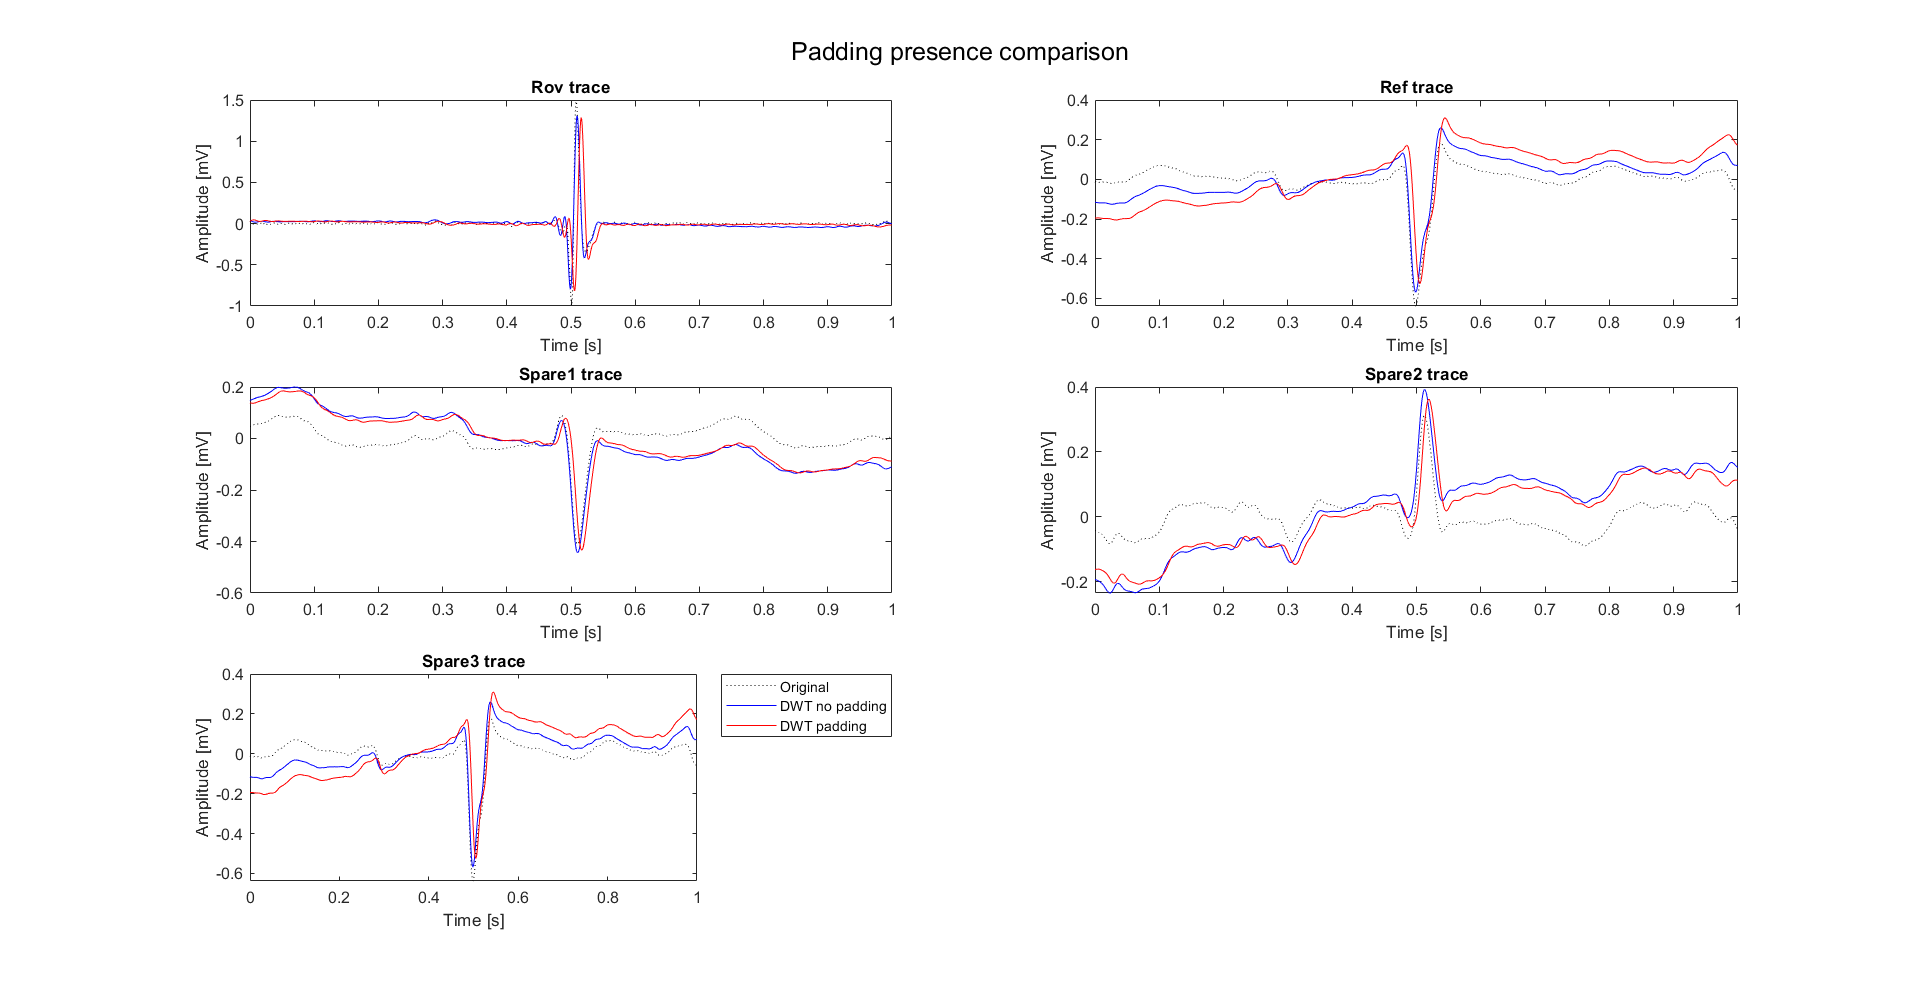
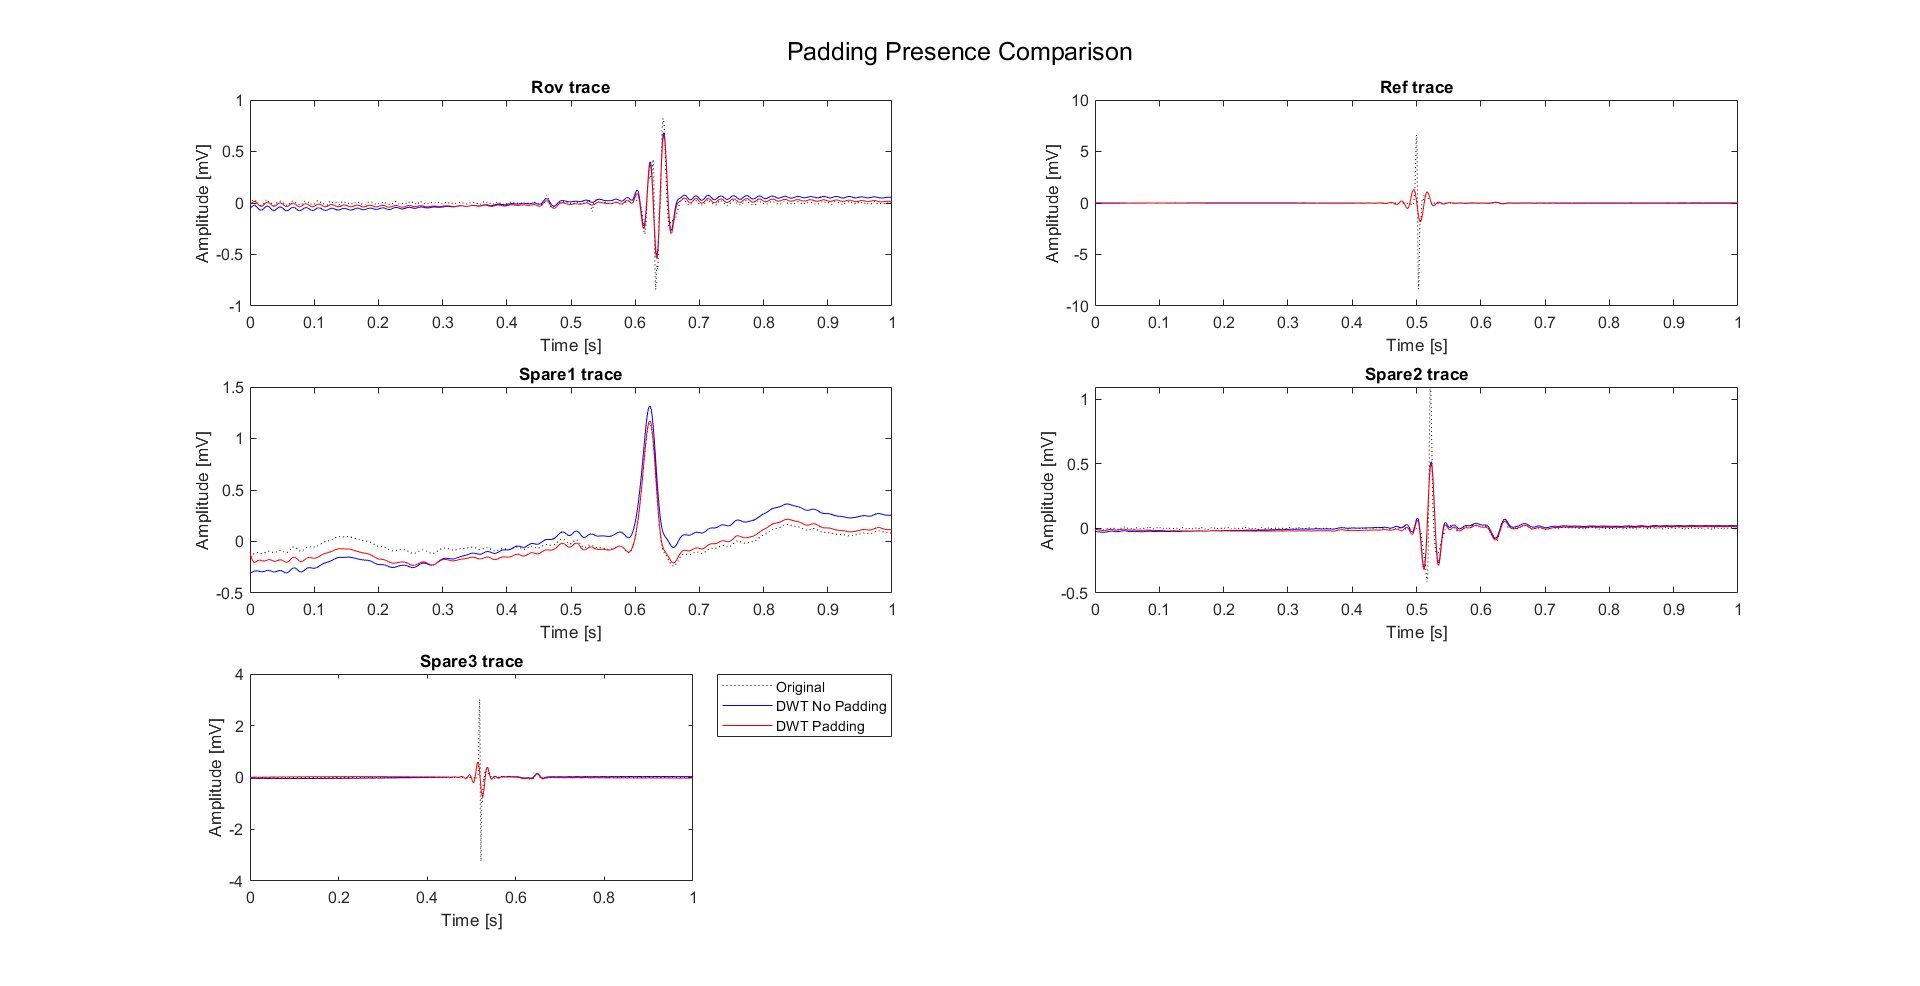
useful images

diff --git a/src/Spectrum_comparison_phase/handable_denoise_ecg_wavelet.m b/src/Spectrum_comparison_phase/handable_denoise_ecg_wavelet.m
@@ -15,24 +15,27 @@ function x_denoised = handable_denoise_ecg_wavelet(x, Fc, type, nLevels, padding
 
   
     signalLength = length(x);
-   % Circular padding if required
-if padding
-    N=3;
-    % Mirror padding
-    x_padded = [flip(x);x;flip(x)];
-    
-    % Calculate the start index of the central repetition
-    idx_start = ((N - 1) / 2) * signalLength + 1;
-    
-    % Calculate the end index of the central repetition
-    idx_end = idx_start + signalLength - 1;
-    
-else
-    % No padding, so keep the original signal
-    x_padded = x;
-    idx_start = 1;                       % Start from the first element
-    idx_end = signalLength;               % End at the last element
-end
+
+    if padding
+        N = 400;  % Number of samples to use from the flipped signal
+
+        % Mirror padding with N samples
+        x_flipped = flip(x);  % Flipped signal
+
+        % Create the padded signal using N samples from the flipped signal
+        x_padded = [x_flipped(1:N); x; x_flipped(1:N)];
+
+        % The original signal starts right after the padding
+        idx_start = N + 1;                   % The start index is N+1 (after padding)
+        idx_end = idx_start + signalLength - 1;  % The end index is calculated based on the original signal length
+
+    else
+        % No padding, keep the original signal
+        x_padded = x;
+        idx_start = 1;                        % Start from the first element
+        idx_end = signalLength;                % End at the last element
+    end
+
 
 
     % Check if the signal length supports the proposed decomposition level

diff --git a/main_preprocessing.m b/main_preprocessing.m
@@ -108,7 +108,7 @@ MAP_B1_example=data.MAP_B.MAP_B1;
 MAP_C1_example=data.MAP_C.MAP_C8;
     
 % Evaluating filtering performance
-    show_pipeline_performances(MAP_B1_example)
+    show_pipeline_performances(MAP_C1_example)
 
 
 
